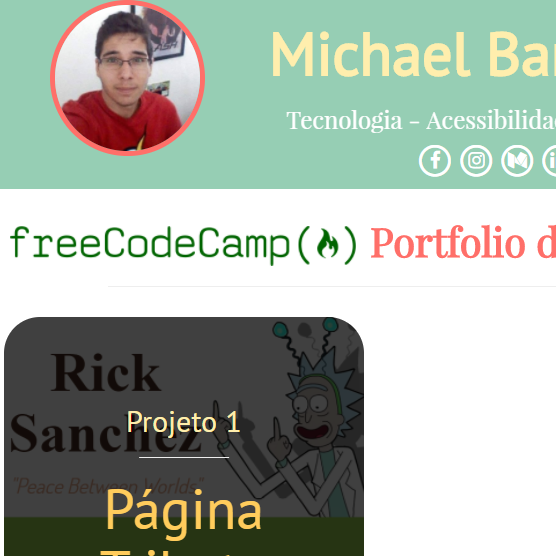
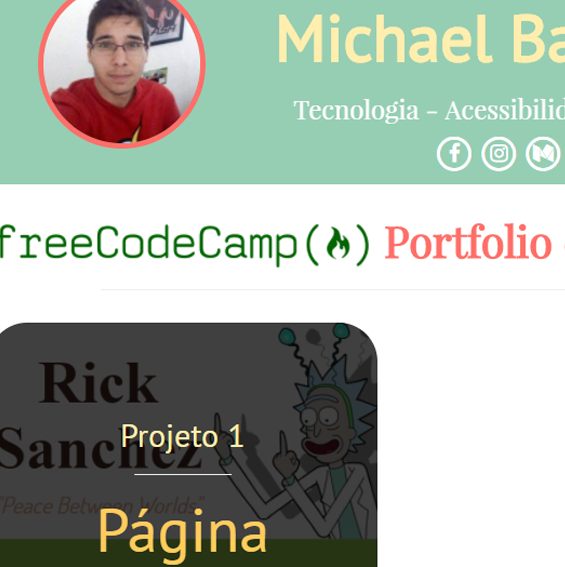
fixed responsive bugs

Changed region(s): [[0.0, 0.0, 1.0, 0.3669], [0.0, 0.5504, 0.6727, 1.0], [0.0, 0.3975, 1.0, 0.4892]]

diff --git a/fcc-portfolio/twitch/index.html b/fcc-portfolio/twitch/index.html
@@ -2,7 +2,7 @@
 
 <html>
 <head>
-    <meta name="viweport" content="width=device-width, initial-scale=1"></meta>
+    <meta name="viewport" content="width=device-width, initial-scale=1">
     <meta charset="UTF-8">
     <title>Twitch Theater</title>
     <link rel='stylesheet prefetch' href='https://cdnjs.cloudflare.com/ajax/libs/twitter-bootstrap/3.3.7/css/bootstrap.min.css'>
@@ -14,7 +14,7 @@
 </head>
 
 <body>
-    <div class="container-fluid">
+    <div>
         <div id="darker">
             <div id="name">
                 <h2>The</h2>
@@ -26,7 +26,7 @@
             <div id="inner-yellow">
                 <h2><b>Now Playing</b></h2>
                 <div class="row" style="margin-top: 50px;">
-                    <ol id="row1" class="col-xs-12 col-md-6">
+                    <ol id="row1">
                     </ol>
                 </div>
             </div>
@@ -37,8 +37,14 @@
                 <h1>Movie</h1>
                 <a href="#">Go Watch It</a>
             </div>
+            
+        <div id="footer">
+            <h4>Developped by <a href="http://michaelbarney.com" target="_blank" class="hover-button"><b>Michael Barney</b></a></h4>
+        </div>
         </div>
     </div>
+    
+
     
     <script src='https://cdnjs.cloudflare.com/ajax/libs/jquery/3.2.1/jquery.min.js'></script>
     <script  src="js/index.js"></script>

diff --git a/fcc-portfolio/quoter/index.html b/fcc-portfolio/quoter/index.html
@@ -52,8 +52,15 @@
                                     </div>
                                 </a>
                             </div>
+                            
+                                                                
+                            <div id="footer">
+                                <h4>Developped by <a href="http://michaelbarney.com" target="_blank" class="hover-button"><b>Michael Barney</b></a></h4>
+                            </div>
                         </div>
                     </div>
+
+        
                 </div>
                 
                 <div id ="homer" class="hidden-xs animated bounceInRight">
@@ -63,9 +70,13 @@
                         <div id = "eye-left" class="eye"></div>
                     </div>
                 </div>
+            
             </div>
+            
+
         </div>
         
+
         <script src='https://cdnjs.cloudflare.com/ajax/libs/jquery/3.2.1/jquery.min.js'></script>
         <script  src="js/index.js"></script>
     </body>

diff --git a/fcc-portfolio/weather/index.html b/fcc-portfolio/weather/index.html
@@ -18,7 +18,8 @@
         <p id="data"><p>
     </div>
     
-    
+
+  
     <div class="myContainer">
         <div id="unit-button">°C<div id="button-holder"><div></div></div>°F</div>
         <form><input type="text" name="city" placeholder="Search a City" style="width:90%; color:black; padding-left: 30px; border-radius: 15px; margin-top: 30px; margin-left:15px; margin-right: 15px;"/></form>
@@ -30,9 +31,13 @@
                 <hr style="width: 50%; margin-top: 5px; margin-bottom: 5px;">
                 <h3 id="temp"></h3>
             </div>
-        </shower>
+        </div>
         
         <i id = "w_icon" class="owf" style="font-size: 100pt; margin-top: 10px;"></i>
+    </div>
+
+    <div id="footer">
+        <h4>Developped by <a href="http://michaelbarney.com" target="_blank" class="hover-button"><b>Michael Barney</b></a></h4>
     </div>
     
     <script src='https://cdnjs.cloudflare.com/ajax/libs/jquery/3.2.1/jquery.min.js'></script>

diff --git a/fcc-portfolio/twitch/css/style.css b/fcc-portfolio/twitch/css/style.css
@@ -44,8 +44,8 @@ body{
     line-height: 5px;
 }
 #banner li{
-    font-size: 20pt;
-    margin-left: 50px;
+    font-size: 30pt;
+    margin-left: 30px;
 }
 
 
@@ -100,14 +100,32 @@ body{
     display: none;
 }
 
-/*
-@media (max-width: 999px) {
-    #banner{
-        position: absolute;
+#footer{
+    position: absolute;
+    right: 0; left: 0; bottom: 10px; margin: auto;
+    text-align: center;
+    color: white;
+    z-index: 999;
+    font-family: 'Merriweather Sans', sans-serif;
+}
+#footer a:visited {
+    text-decoration: inherit;
+    color: inherit;
+    cursor: pointer;
+}
 
-        left: 0;
-        right: 0;
-        top: 100px;
+
+@media (max-width: 700px) {
+    li{
+        font-size: 15pt !important;
+        margin-left: 10px !important;
+    }
+    #banner{
+        margin: 5px !important;
+        margin-top: 50px !important;
+    }
+    #name i, h1{
+        font-size: 30pt;
+        line-height: 8pt;
     }
 }
-*/

diff --git a/fcc-portfolio/calculator/index.html b/fcc-portfolio/calculator/index.html
@@ -2,7 +2,7 @@
 
 <html>
 <head>
-    <meta name="viweport" content="width=device-width, initial-scale=1"></meta>
+    <meta name="viewport" content="width=device-width, initial-scale=1">
     <meta charset="UTF-8">
     <title>Calculator</title>
     <link rel='stylesheet prefetch' href='https://cdnjs.cloudflare.com/ajax/libs/twitter-bootstrap/3.3.7/css/bootstrap.min.css'>
@@ -43,7 +43,11 @@
             <div class="col-xs-12 op">÷</div>
         </div>
     </div>
-    
+
+    <div id="footer">
+            <h4>Developped by <a href="http://michaelbarney.com" target="_blank" class="hover-button"><b>Michael Barney</b></a></h4>
+    </div>
+ 
     <script src='https://cdnjs.cloudflare.com/ajax/libs/jquery/3.2.1/jquery.min.js'></script>
     <script  src="js/index.js"></script>
 </body>

diff --git a/fcc-portfolio/index.html b/fcc-portfolio/index.html
@@ -84,9 +84,10 @@
         </a>
       </div>
  
+ 
       <div class="col-md-4 col-sm-6 col-xs-12 portfolio-item">
         <a href="#">
-        <img class="img-responsive" src="https://i.imgur.com/gpWDOxn.png" style="border-radius: 10%; ">
+        <img class="img-responsive" src="img/portfolio.png" style="border-radius: 10%; ">
         <div class="black-fill" >
           <div class="inner">
             <h2 style="color: #ffeead;">Projeto 2</h2>
@@ -156,7 +157,7 @@
           <div class="inner">
             <h2 style="color: #ffeead;">Projeto 7</h2>
             <hr style="width: 50%;">
-            <h1 style="color: #ffcc5c;">Calculadorar</h1>
+            <h1 style="color: #ffcc5c;">Calculator</h1>
           </div>
         </div>
         </a>

diff --git a/fcc-portfolio/calculator/css/style.css b/fcc-portfolio/calculator/css/style.css
@@ -34,7 +34,7 @@ a:visited {
  width: 400px;
  top: 0; bottom:0; left:0; right:0;
  margin: auto;
- background-color: blue;
+ background-color: #9a4456;
  color: white;
  box-shadow: 10px 10px 5px -5px rgba(0,0,0,0.75);
 }
@@ -60,4 +60,25 @@ a:visited {
     transition: all 2s;
     line-height: 1.75;
     cursor:pointer;
+}
+
+#footer{
+    position: absolute;
+    right: 0; left: 0; bottom: 10px; margin: auto;
+    text-align: center;
+    color: white;
+    z-index: 999;
+    font-family: 'Merriweather Sans', sans-serif;
+}
+#footer a:visited {
+    text-decoration: inherit;
+    color: inherit;
+    cursor: pointer;
+}
+
+
+@media (max-width: 700px) {
+    #calculator{
+        box-shadow: none;
+    }
 }

diff --git a/fcc-portfolio/tribute/index.html b/fcc-portfolio/tribute/index.html
@@ -20,11 +20,12 @@
   <link href="https://fonts.googleapis.com/css?family=Arvo|Dosis|Poppins" rel="stylesheet">
 
 <div class="container-fluid">
-  <div id="header" class="row">
+  <div class="row">
     <div id="header" class="col-md-8 col-sm-7 vcol-xs-12 center">
         <h1 id="name" class="text-center animated zoomIn">Rick Sanchez</h1>
         <h2 id="quote" class="text-center animated zoomIn"><i>"Peace Between Worlds"</i></h2>
-    </div><div class="col-md-4 col-sm-5 vcenter">
+    </div>
+    <div id = "rick_img" class="col-md-4 col-sm-5 vcenter">
       <img class = "img-responsive animated fadeInRight" src="https://i.imgur.com/ig1ePaP.png">
     </div>
   </div>

diff --git a/fcc-portfolio/wikipedia/index.html b/fcc-portfolio/wikipedia/index.html
@@ -37,7 +37,11 @@
     
     <div id="filler">
     </div>
-    
+
+    <div id="footer">
+        <h4>Developped by <a href="http://michaelbarney.com" target="_blank" class="hover-button"><b>Michael Barney</b></a></h4>
+    </div>
+ 
     <script src='https://cdnjs.cloudflare.com/ajax/libs/jquery/3.2.1/jquery.min.js'></script>
     <script src='https://s3-us-west-2.amazonaws.com/s.cdpn.io/15309/typed.min.js'></script>
     <script  src="js/index.js"></script>

diff --git a/fcc-portfolio/wikipedia/css/style.css b/fcc-portfolio/wikipedia/css/style.css
@@ -140,6 +140,20 @@ body{
       background-color: black;
 }
 
+#footer{
+    position: absolute;
+    right: 0; left: 0; bottom: 10px; margin: auto;
+    text-align: center;
+    color: white;
+    z-index: 999;
+    font-family: 'Merriweather Sans', sans-serif;
+}
+#footer a:visited {
+    text-decoration: inherit;
+    color: inherit;
+    cursor: pointer;
+}
+
 @media(max-width:800px){
     #new_search{
        display: none !important;

diff --git a/fcc-portfolio/weather/css/style.css b/fcc-portfolio/weather/css/style.css
@@ -48,6 +48,20 @@
     margin: auto;
 }
 
+#footer{
+    position: absolute;
+    right: 0; left: 0; bottom: 10px; margin: auto;
+    text-align: center;
+    color: white;
+    z-index: 999;
+    font-family: 'Merriweather Sans', sans-serif;
+}
+#footer a:visited {
+    text-decoration: inherit;
+    color: inherit;
+    cursor: pointer;
+}
+
 @media(max-width:400px){
     .myContainer{
         padding-top: 50%;

diff --git a/fcc-portfolio/quoter/css/style.css b/fcc-portfolio/quoter/css/style.css
@@ -88,10 +88,17 @@ body{
 a:link {
     text-decoration: inherit;
     color: inherit;
-    cursor: auto;
+    cursor: pointer;
 }
 a:visited {
     text-decoration: inherit;
     color: inherit;
-    cursor: auto;
+    cursor: pointer;
+}
+
+
+#footer{
+    color: white;
+    margin-top: 200px;
+    text-align: center;
 }
